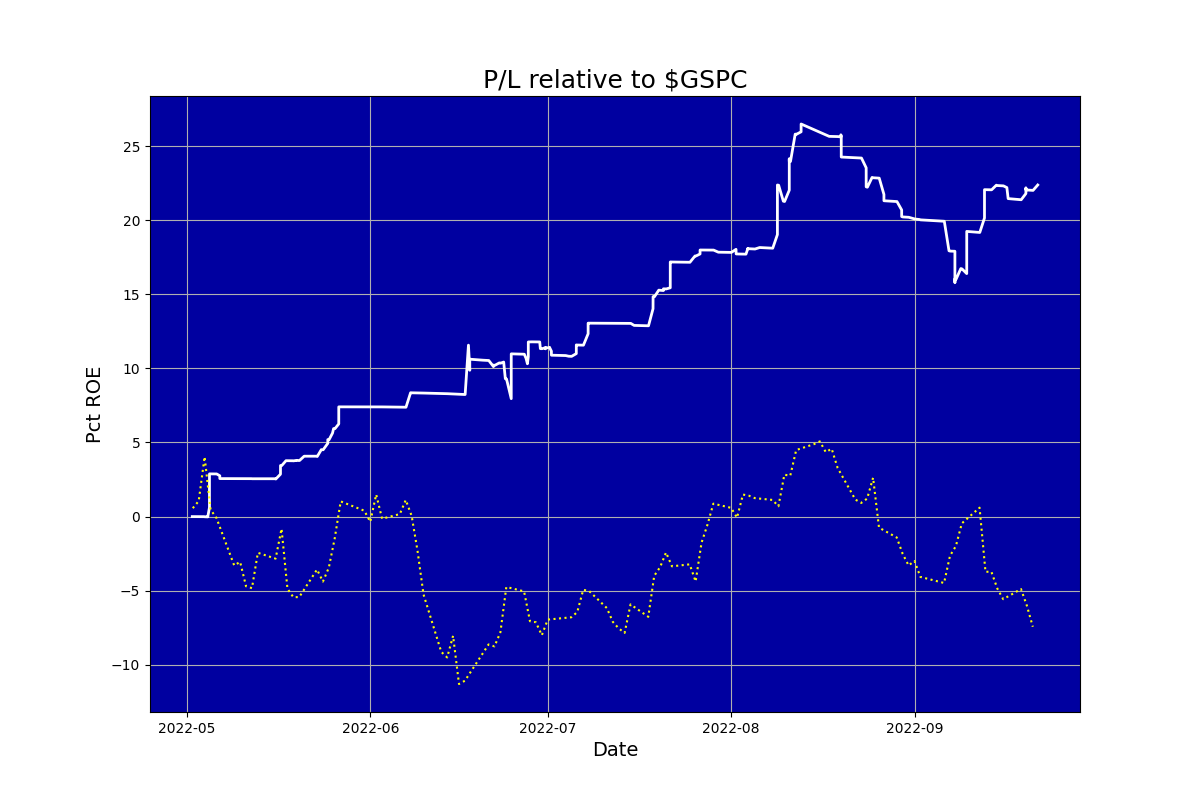
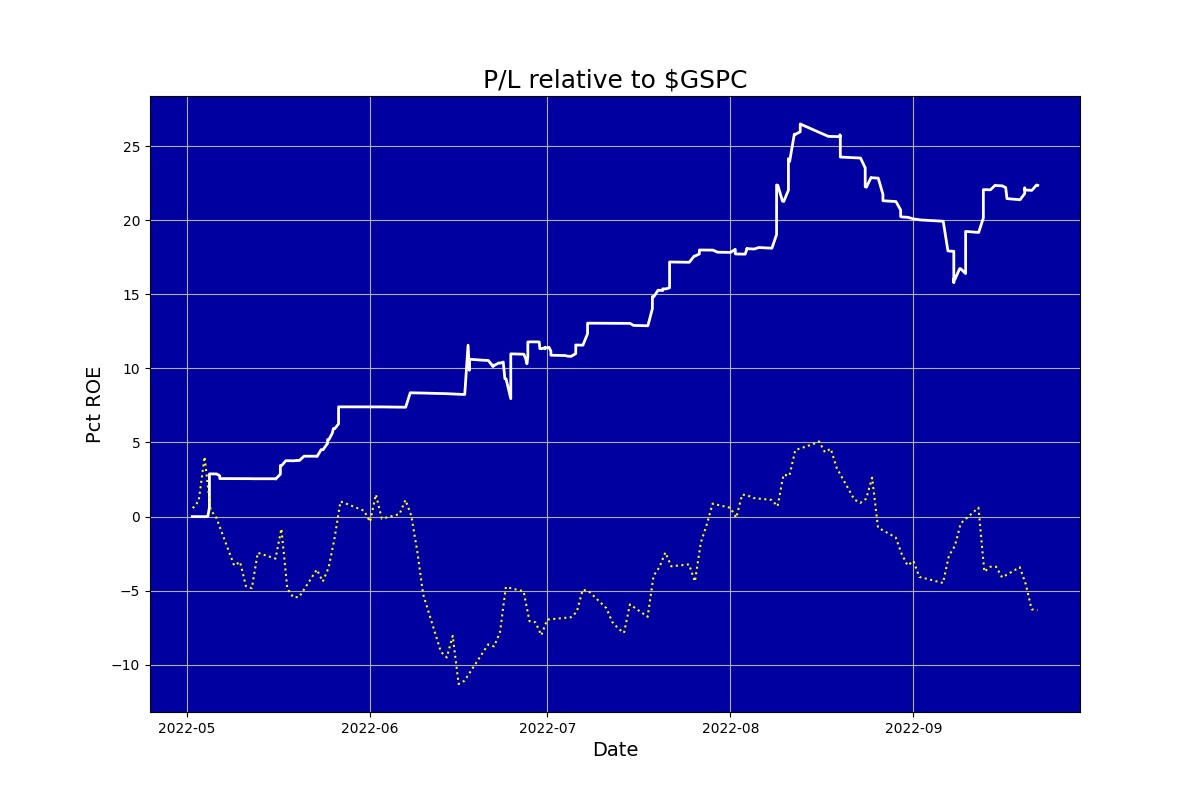
Updated

diff --git a/ig_report.html b/ig_report.html
@@ -1,1 +1,1 @@
-<html><body><center><h1>Auriel (never knowingly overbought)</h1></center><table cols=2><tr><td><img src=ig_pl.png></td><td><table cols=2><tr><td colspan=2><b><br>Snapshot</b></td></tr><tr><td>Last updated:&nbsp;&nbsp;&nbsp;</td><td>2022-09-21 16:00</td></tr><tr><td>Funds:&nbsp;&nbsp;&nbsp;</td><td>14308.73</td></tr><tr><td>Margin:&nbsp;&nbsp;&nbsp;</td><td>0.40</td></tr><tr><td>Cushion:&nbsp;&nbsp;&nbsp;</td><td>-2068.44</td></tr><tr><td>Last closed trade:&nbsp;&nbsp;&nbsp;</td><td>2022-09-21</td></tr><tr><td colspan=2><b><br>Positions</b></td></tr><tr><td>Mean days to new high:&nbsp;&nbsp;&nbsp;</td><td>4.26</td></tr><tr><td colspan=2><b><br>Trades</b></td></tr><tr><td>Num trades:&nbsp;&nbsp;&nbsp;</td><td>131</td></tr><tr><td>Pct winners:&nbsp;&nbsp;&nbsp;</td><td>64.12</td></tr><tr><td>Pct beating benchmark:&nbsp;&nbsp;&nbsp;</td><td>62.31</td></tr><tr><td>Pct profitable months:&nbsp;&nbsp;&nbsp;</td><td>100.00</td></tr><tr><td colspan=2><b><br>Performance</b></td></tr><tr><td>Pct median monthly ROE:&nbsp;&nbsp;&nbsp;</td><td>4.24</td></tr><tr><td>Pct annualised ROE:&nbsp;&nbsp;&nbsp;</td><td>104.87</td></tr><tr><td colspan=2><b><br>Risk</b></td></tr><tr><td>Volatility pct:&nbsp;&nbsp;&nbsp;</td><td>20.21</td></tr><tr><td>Benchmark volatility pct:&nbsp;&nbsp;&nbsp;</td><td>25.09</td></tr><tr><td>Sharpe ratio:&nbsp;&nbsp;&nbsp;</td><td>5.11</td></tr><tr><td>Calmar ratio:&nbsp;&nbsp;&nbsp;</td><td>10.29</td></tr><tr><td>Worst drawdown pct:&nbsp;&nbsp;&nbsp;</td><td>-0.10</td></tr><tr><td>Recovery days from worst drawdown:&nbsp;&nbsp;&nbsp;</td><td>9999.00</td></tr><tr><td>Beat benchmark +ve periods pct:&nbsp;&nbsp;&nbsp;</td><td>0.83</td></tr><tr><td>Beat benchmark -ve periods pct:&nbsp;&nbsp;&nbsp;</td><td>0.93</td></tr><tr><td>Correlation with benchmark:&nbsp;&nbsp;&nbsp;</td><td>0.28</td></tr></table></td></tr></table></body></html>
+<html><body><center><h1>Auriel (never knowingly overbought)</h1></center><table cols=2><tr><td><img src=ig_pl.png></td><td><table cols=2><tr><td colspan=2><b><br>Snapshot</b></td></tr><tr><td>Last updated:&nbsp;&nbsp;&nbsp;</td><td>2022-09-22 16:00</td></tr><tr><td>Funds:&nbsp;&nbsp;&nbsp;</td><td>14305.13</td></tr><tr><td>Margin:&nbsp;&nbsp;&nbsp;</td><td>0.42</td></tr><tr><td>Cushion:&nbsp;&nbsp;&nbsp;</td><td>-2467.74</td></tr><tr><td>Last closed trade:&nbsp;&nbsp;&nbsp;</td><td>2022-09-22</td></tr><tr><td colspan=2><b><br>Positions</b></td></tr><tr><td>Mean days to new high:&nbsp;&nbsp;&nbsp;</td><td>4.26</td></tr><tr><td colspan=2><b><br>Trades</b></td></tr><tr><td>Num trades:&nbsp;&nbsp;&nbsp;</td><td>131</td></tr><tr><td>Pct winners:&nbsp;&nbsp;&nbsp;</td><td>64.12</td></tr><tr><td>Pct beating benchmark:&nbsp;&nbsp;&nbsp;</td><td>62.31</td></tr><tr><td>Pct profitable months:&nbsp;&nbsp;&nbsp;</td><td>100.00</td></tr><tr><td colspan=2><b><br>Performance</b></td></tr><tr><td>Pct median monthly ROE:&nbsp;&nbsp;&nbsp;</td><td>4.24</td></tr><tr><td>Pct annualised ROE:&nbsp;&nbsp;&nbsp;</td><td>104.87</td></tr><tr><td colspan=2><b><br>Risk</b></td></tr><tr><td>Volatility pct:&nbsp;&nbsp;&nbsp;</td><td>20.21</td></tr><tr><td>Benchmark volatility pct:&nbsp;&nbsp;&nbsp;</td><td>24.96</td></tr><tr><td>Sharpe ratio:&nbsp;&nbsp;&nbsp;</td><td>5.11</td></tr><tr><td>Calmar ratio:&nbsp;&nbsp;&nbsp;</td><td>10.29</td></tr><tr><td>Worst drawdown pct:&nbsp;&nbsp;&nbsp;</td><td>-0.10</td></tr><tr><td>Recovery days from worst drawdown:&nbsp;&nbsp;&nbsp;</td><td>9999.00</td></tr><tr><td>Beat benchmark +ve periods pct:&nbsp;&nbsp;&nbsp;</td><td>0.83</td></tr><tr><td>Beat benchmark -ve periods pct:&nbsp;&nbsp;&nbsp;</td><td>0.93</td></tr><tr><td>Correlation with benchmark:&nbsp;&nbsp;&nbsp;</td><td>0.28</td></tr></table></td></tr></table></body></html>
